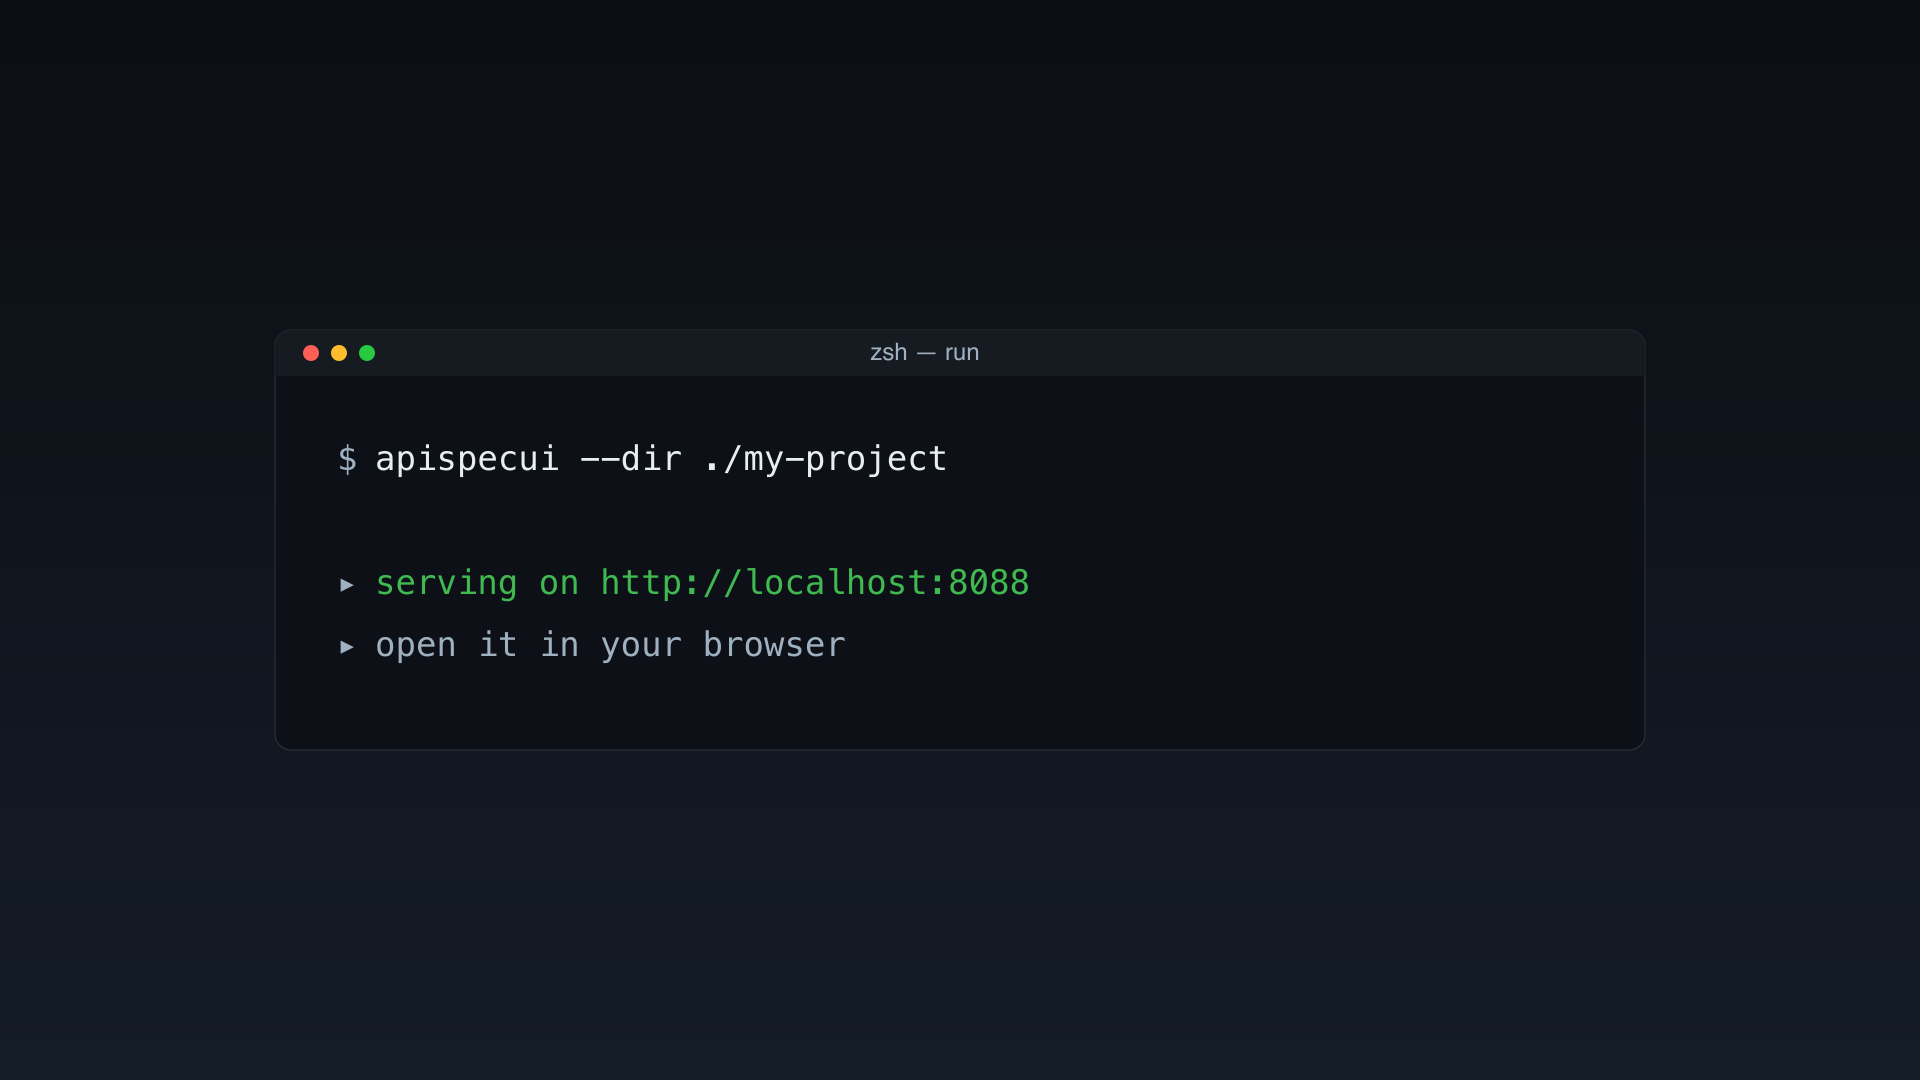
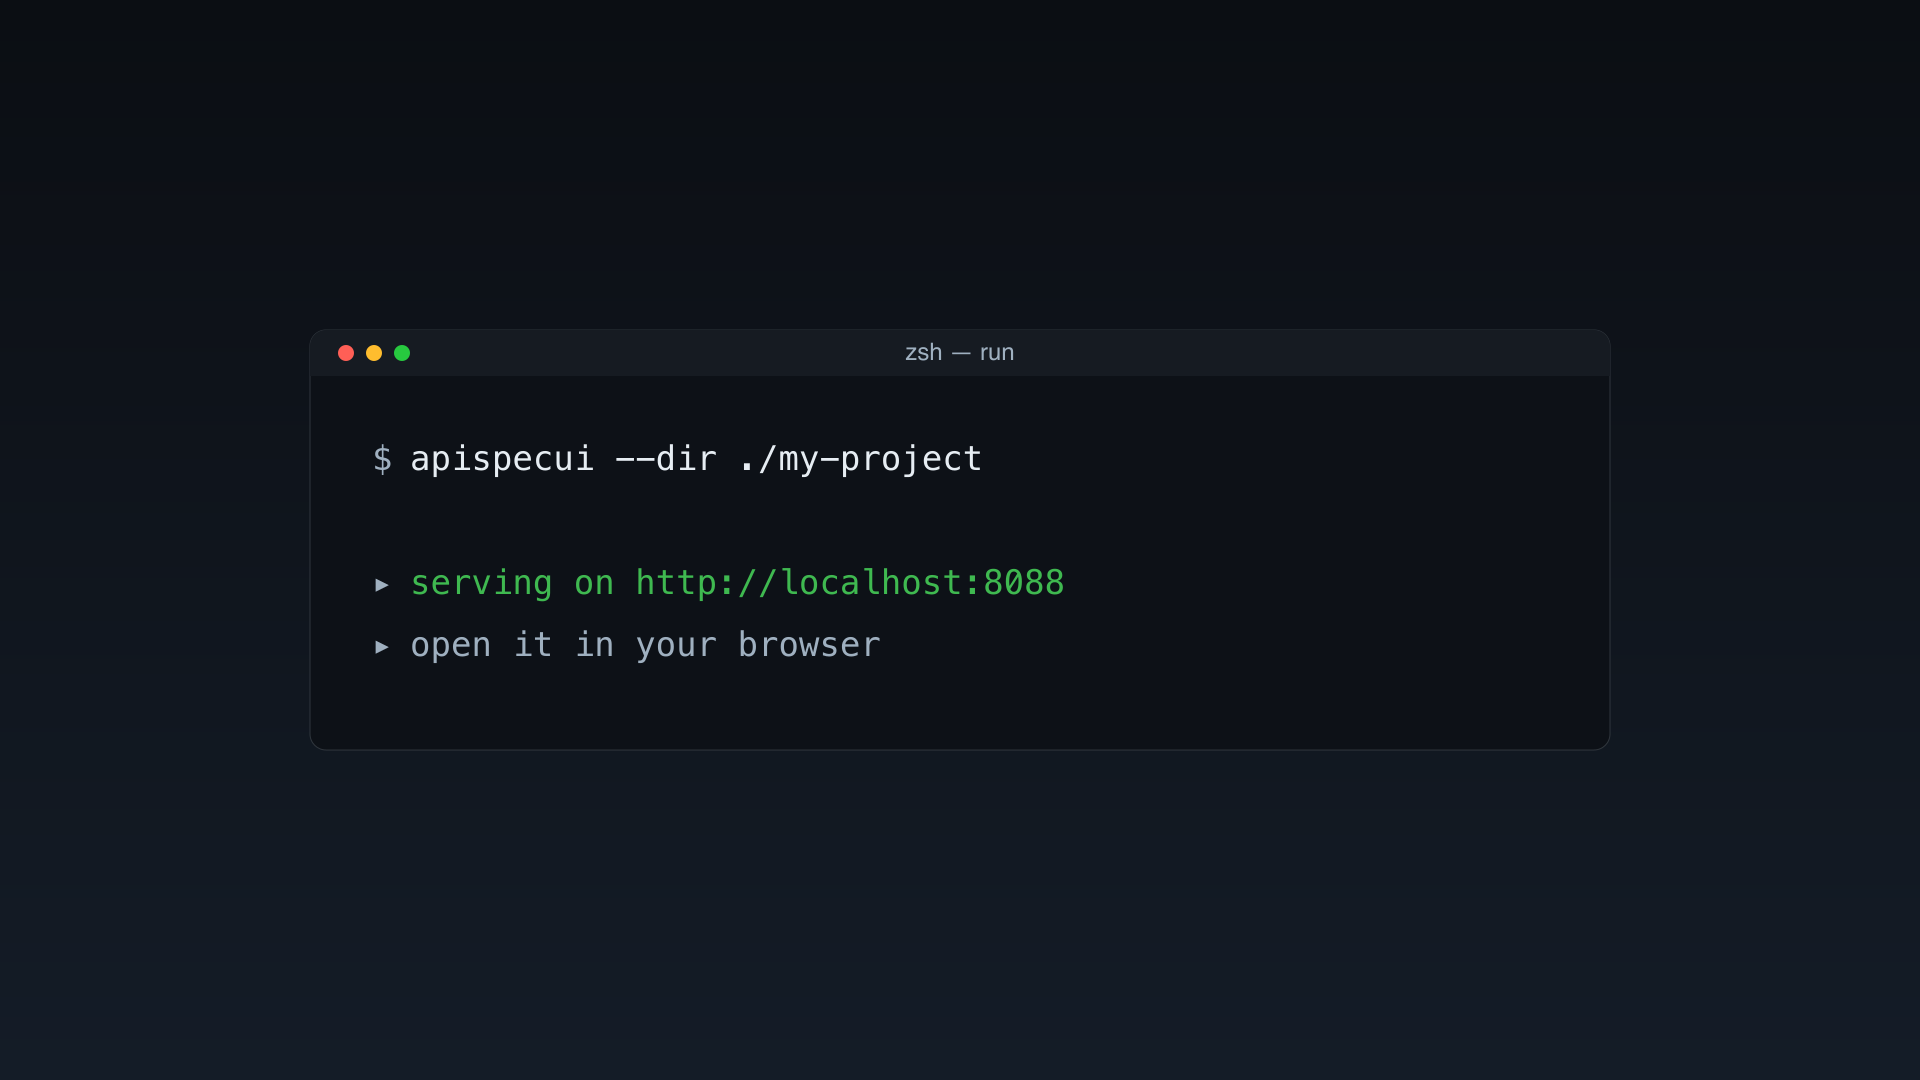
video kit changes

diff --git a/video-kit/gen_assets.py b/video-kit/gen_assets.py
@@ -69,6 +69,75 @@ def lower(name, text):                 # lower-third caption (transparent canvas
 <text x="968" y="1006" font-family="{FONT}" font-size="44" font-weight="600" fill="{TXT}" text-anchor="middle">{html.escape(text)}</text></svg>''')
 
 
+# ---------- vertical 9:16 (1080x1920) variants for the short, build_short.sh ----------
+# Same theme, portrait canvas. Footage sits in a centred 1080x608 band; hooks go
+# above it (top), captions below it (bottom), so neither covers the demo.
+WV, HV = 1080, 1920
+GRADV = ('<defs><linearGradient id="gv" x1="0" y1="0" x2="0" y2="1">'
+         '<stop offset="0" stop-color="#0b0e13"/><stop offset="1" stop-color="#141c27"/>'
+         '</linearGradient></defs><rect width="1080" height="1920" fill="url(#gv)"/>')
+
+
+def render_v(name, body):
+    svg = (f'<svg xmlns="http://www.w3.org/2000/svg" width="{WV}" height="{HV}" '
+           f'viewBox="0 0 {WV} {HV}">{body}</svg>')
+    open(f"{OUT}/{name}.svg", "w").write(svg)
+    subprocess.run(["rsvg-convert", "-w", str(WV), "-h", str(HV),
+                    f"{OUT}/{name}.svg", "-o", f"{OUT}/{name}.png"], check=True)
+
+
+def _wrap(text, n):                    # greedy word-wrap to <= n chars/line
+    out, cur = [], ""
+    for w in text.split():
+        if not cur or len(cur) + 1 + len(w) <= n:
+            cur = (cur + " " + w).strip()
+        else:
+            out.append(cur); cur = w
+    if cur: out.append(cur)
+    return out
+
+
+def _block(cx, top, h, size, weight, fill, lines):   # vertically-centred text block
+    dy = round(size * 1.2)
+    base = top + (h - ((len(lines) - 1) * dy + size)) / 2 + size * 0.78
+    return "".join(
+        f'<text x="{cx}" y="{base + i*dy:.0f}" font-family="{FONT}" font-size="{size}" '
+        f'font-weight="{weight}" fill="{fill}" text-anchor="middle">{html.escape(t)}</text>'
+        for i, t in enumerate(lines))
+
+
+def _panel_v(name, top, lines, size, accent_left):   # rounded panel + centred text
+    pad, dy = 34, round(size * 1.2)
+    h = 2 * pad + (len(lines) - 1) * dy + size
+    bar = (f'<rect x="60" y="{top}" width="12" height="{h}" rx="6" fill="{ACC}"/>' if accent_left
+           else f'<rect x="60" y="{top}" width="960" height="8" rx="4" fill="{ACC}"/>')
+    render_v(name,
+        f'<svg xmlns="http://www.w3.org/2000/svg" width="{WV}" height="{HV}" viewBox="0 0 {WV} {HV}">'
+        f'<rect x="60" y="{top}" width="960" height="{h}" rx="22" fill="{PANEL}" fill-opacity="0.92" stroke="{STROKE}"/>'
+        + bar + _block(540, top, h, size, 600, TXT, lines) + '</svg>')
+
+
+def title_v(name, big, sub):           # opening card
+    render_v(name, GRADV
+        + f'<text x="540" y="840" font-family="{FONT}" font-size="120" font-weight="700" fill="{ACC}" text-anchor="middle">{html.escape(big)}</text>'
+        + f'<rect x="420" y="912" width="240" height="6" rx="3" fill="{ACC}"/>'
+        + _block(540, 950, 210, 42, 400, TXT, _wrap(sub, 24)))
+
+
+def outro_v(name, big, sub):           # closing card
+    render_v(name, GRADV
+        + _block(540, 740, 380, 72, 700, TXT, _wrap(big, 16))
+        + f'<text x="540" y="1210" font-family="{FONT}" font-size="40" fill="{ACC}" text-anchor="middle">{html.escape(sub)}</text>')
+
+
+def hook_v(name, text):                # persistent top band over footage (transparent)
+    _panel_v(name, 210, _wrap(text, 22), 48, accent_left=False)
+
+
+def cap_v(name, text):                 # lower-third caption for vertical (transparent)
+    _panel_v(name, 1360, _wrap(text, 26), 42, accent_left=True)
+
+
 # ============== EDIT BELOW ==============
 title("title", "apispec", "OpenAPI 3.1 from your Go source — no annotations")
 title("outro", "Generate OpenAPI from Go — try it", "★  github.com/ehabterra/apispec")  # or customise
@@ -97,5 +166,13 @@ lower("cap_generate",  "Generate from real code — 13 paths in ~1s")
 lower("cap_explore",   "Request & response schemas — inferred, not annotated")
 lower("cap_configure", "Tune route & type detection in the browser")
 lower("cap_insight",   "Insight: trace every endpoint's call path")
+
+# --- vertical 9:16 short (used by build_short.sh) ---
+title_v("title_v", "apispec", "OpenAPI 3.1 from your Go source")
+outro_v("outro_v", "Generate OpenAPI from Go", "github.com/ehabterra/apispec")
+hook_v("hook", "Go → OpenAPI 3.1, no annotations")   # persistent top band
+cap_v("capv_generate", "13 paths generated in ~1s")
+cap_v("capv_explore",  "Schemas inferred, not annotated")
+cap_v("capv_insight",  "Trace every endpoint's call path")
 # ========================================
 print("assets ->", OUT)

diff --git a/video-kit/README.md b/video-kit/README.md
@@ -34,9 +34,36 @@ recording into a short, captioned, privacy-blurred, compressed demo.
 ## Files
 
 - `gen_assets.py` — all text PNGs. Edit the lists at the bottom (labels, captions, commands).
-- `build.sh` — the `TIMELINE` is the only thing you edit per video:
+- `build.sh` — landscape 16:9 demo. The `TIMELINE` is the only thing you edit per video:
   - `card <png> <dur> <fade> <name>` — a still card (title / cover / terminal).
   - `clip <start> <dur> <caption|none> <blur:0|1> <name>` — a slice of footage.
+- `build_short.sh` — vertical **9:16 short** (1080×1920) from the *same* recording. See below.
+
+## Vertical short (9:16, for Shorts / Reels / TikTok)
+
+`build_short.sh` reframes the same `SRC` into a portrait video for the Shorts feed —
+a different discovery channel than a long-form upload, so it's worth making one.
+
+How the reframe works: each footage frame is scaled to a **centred 1080×608 band**,
+and a **blurred, darkened copy of the same frame** fills the rest of the canvas (the
+classic vertical fill — no black bars). A persistent `hook` band sits *above* the
+footage, the per-clip caption sits *below* it, so neither covers the demo.
+
+```bash
+python3 gen_assets.py     # renders both landscape AND vertical assets
+./build_short.sh          # -> ../apispecui-short.mp4  (1080x1920)
+```
+
+- Vertical assets are generated by the same `gen_assets.py`: `title_v`, `outro_v`,
+  `hook` (top band), and `capv_*` (vertical captions). Edit their text near the
+  bottom of the file alongside the landscape ones.
+- The short `TIMELINE` uses `card_v` / `clip_v` (same arg order as `card`/`clip`).
+  Keep it punchy — **aim 20–50s total**, lead with the result in the first 1–2s.
+- Blur boxes, `ENC`, and `SRC` are shared with `build.sh`, so privacy regions stay
+  blurred in *both* the footage band and the blurred fill behind it.
+- **Tradeoff:** the centred band is 1080×608, so dense UI text reads small. If a clip
+  needs the UI bigger, crop to the key region first (add a `crop=` before the scale in
+  `clip_v`, measured in source pixels) instead of fitting the whole frame.
 
 ## Gotchas (these bit me)
 
@@ -54,6 +81,12 @@ recording into a short, captioned, privacy-blurred, compressed demo.
   Avoid `-to` here — its meaning shifts depending on `-ss` placement.
 - **Privacy:** screen recordings leak paths, hostnames, tokens. Blur them
   (`crop+boxblur+overlay`) or cover with a card. Verify by extracting frames.
+- **macOS recording filenames hide a non-breaking space.** Finder names recordings
+  like `Screen Recording … at 1.59.28 PM.mov`, but the gap before `AM`/`PM` is a
+  *narrow no-break space* (U+202F), not an ASCII space. Typing the path by hand (or
+  pasting a normal space) won't match the file. Set `SRC` by dragging the file into
+  the terminal or tab-completing it — don't retype it. (Both build scripts ship with
+  a plain-space placeholder; replace it, don't edit around it.)
 
 ## One-liners worth keeping
 